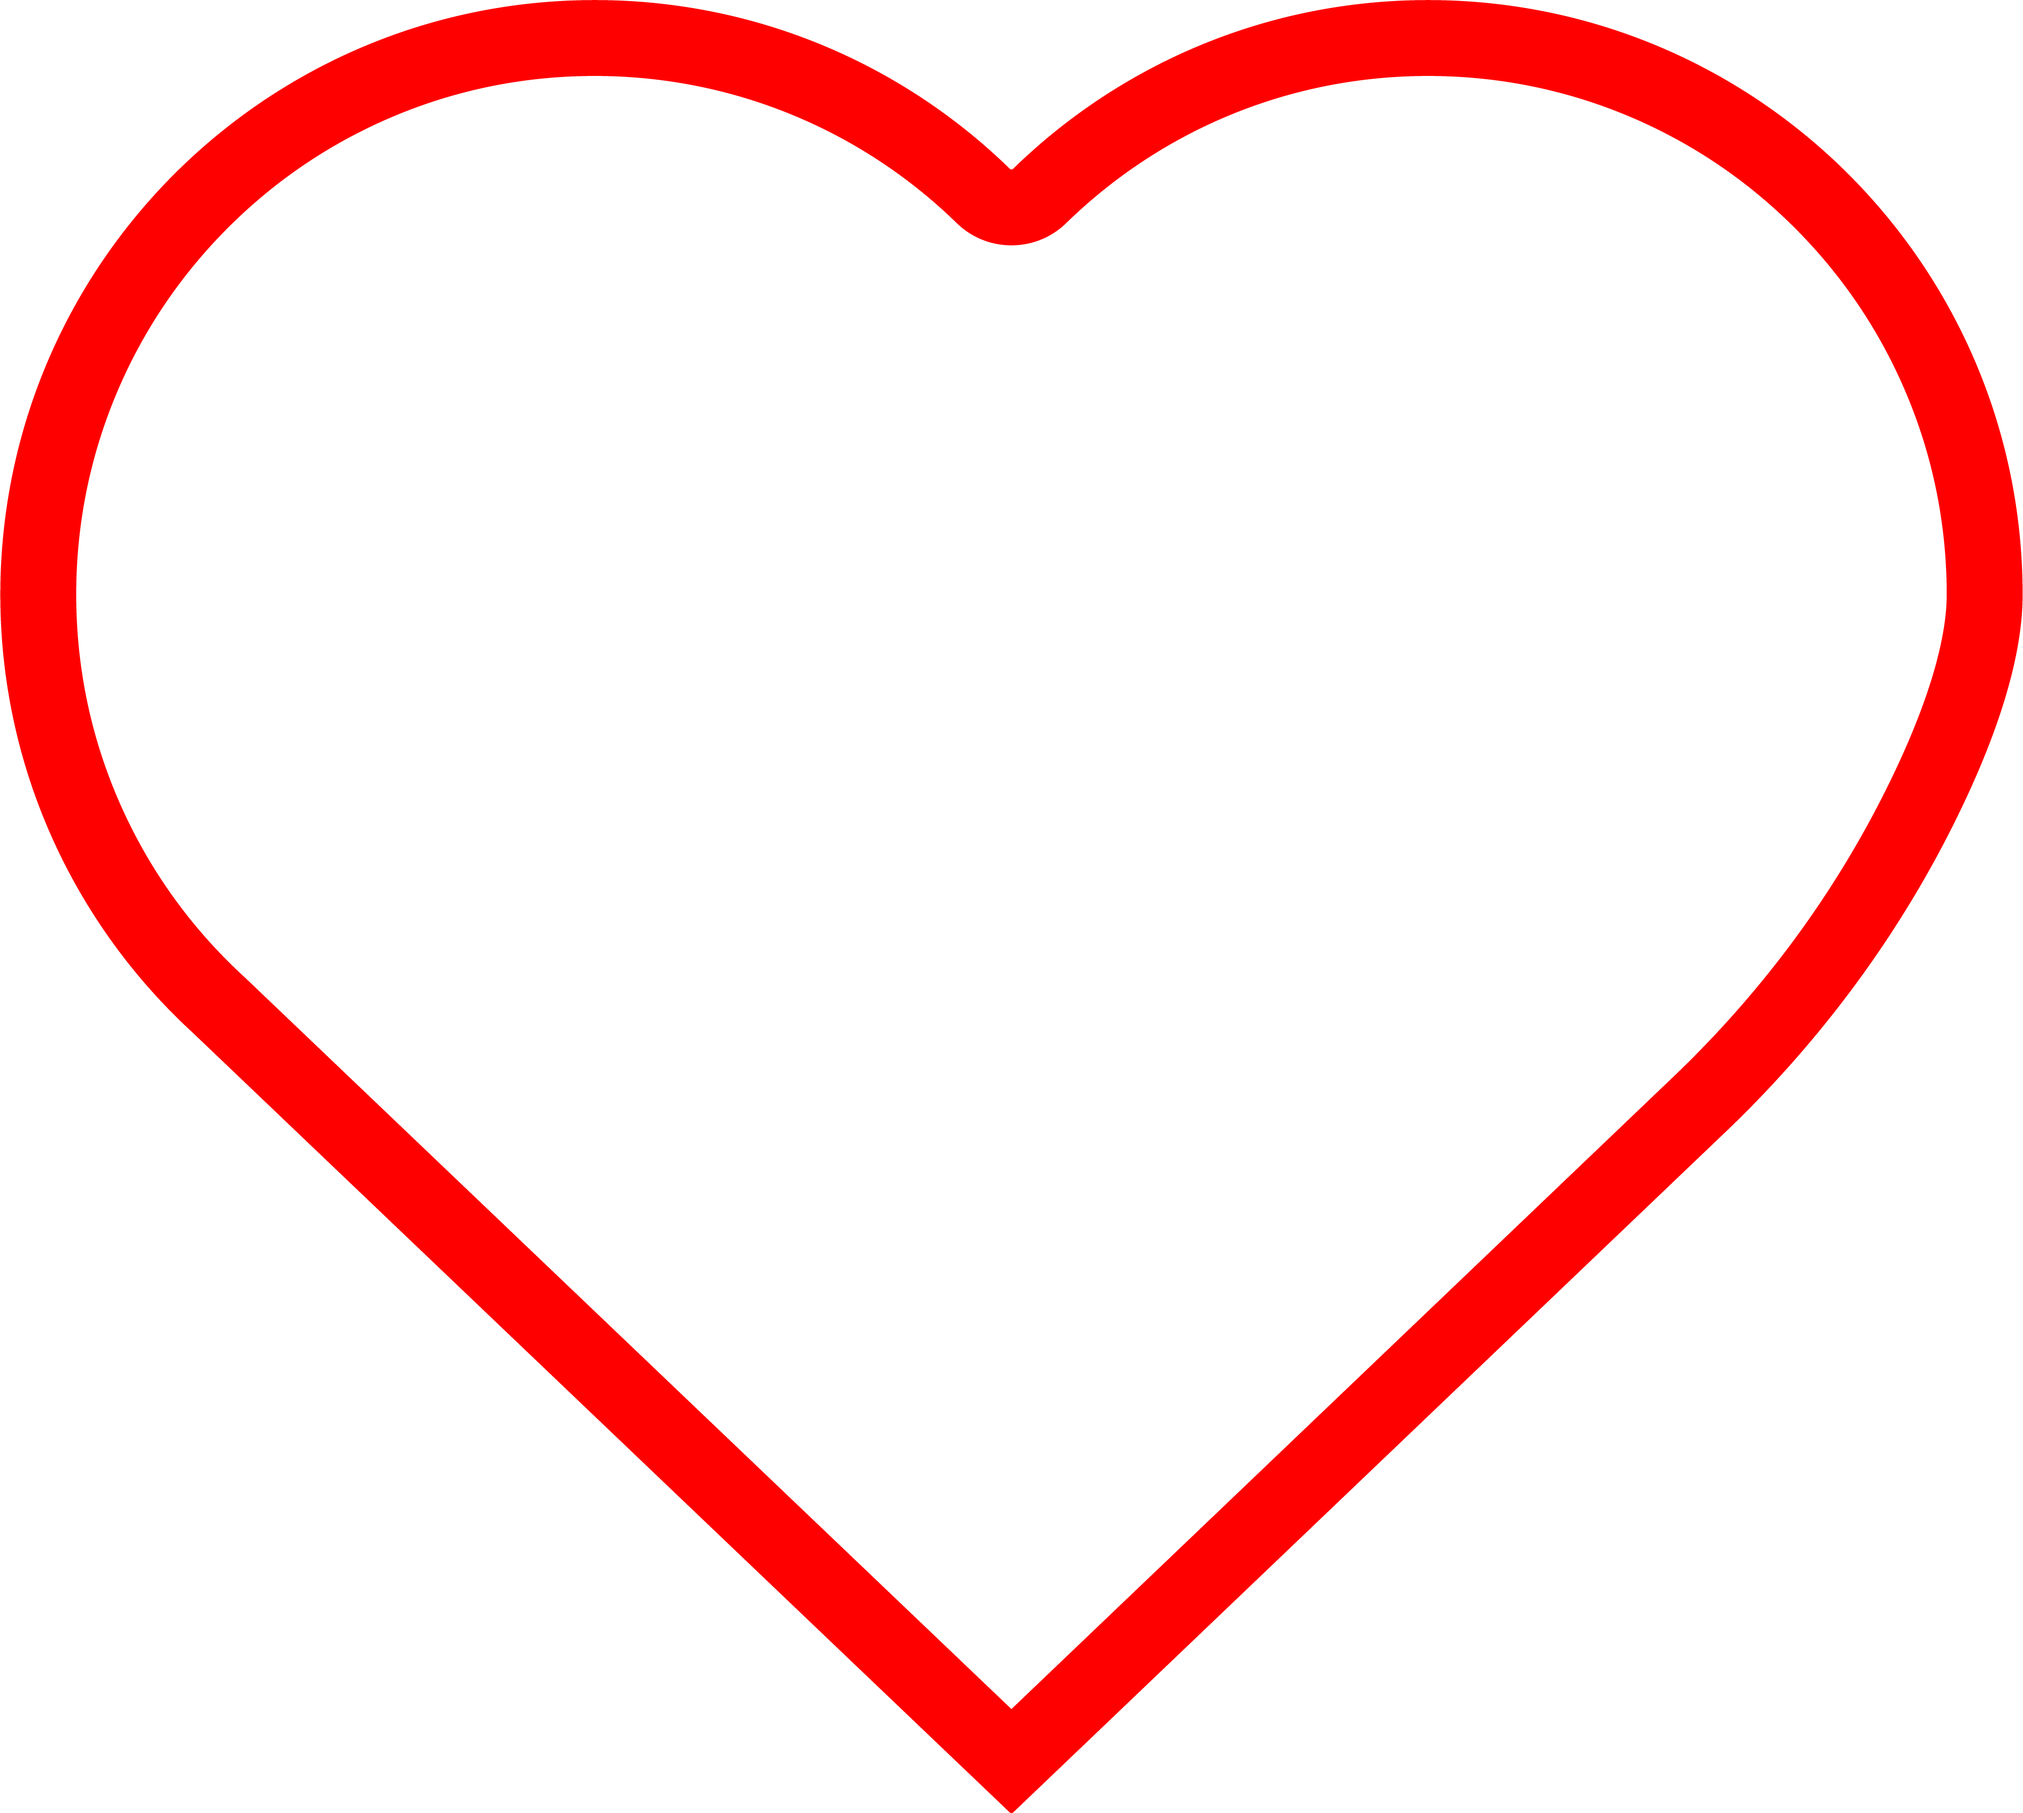
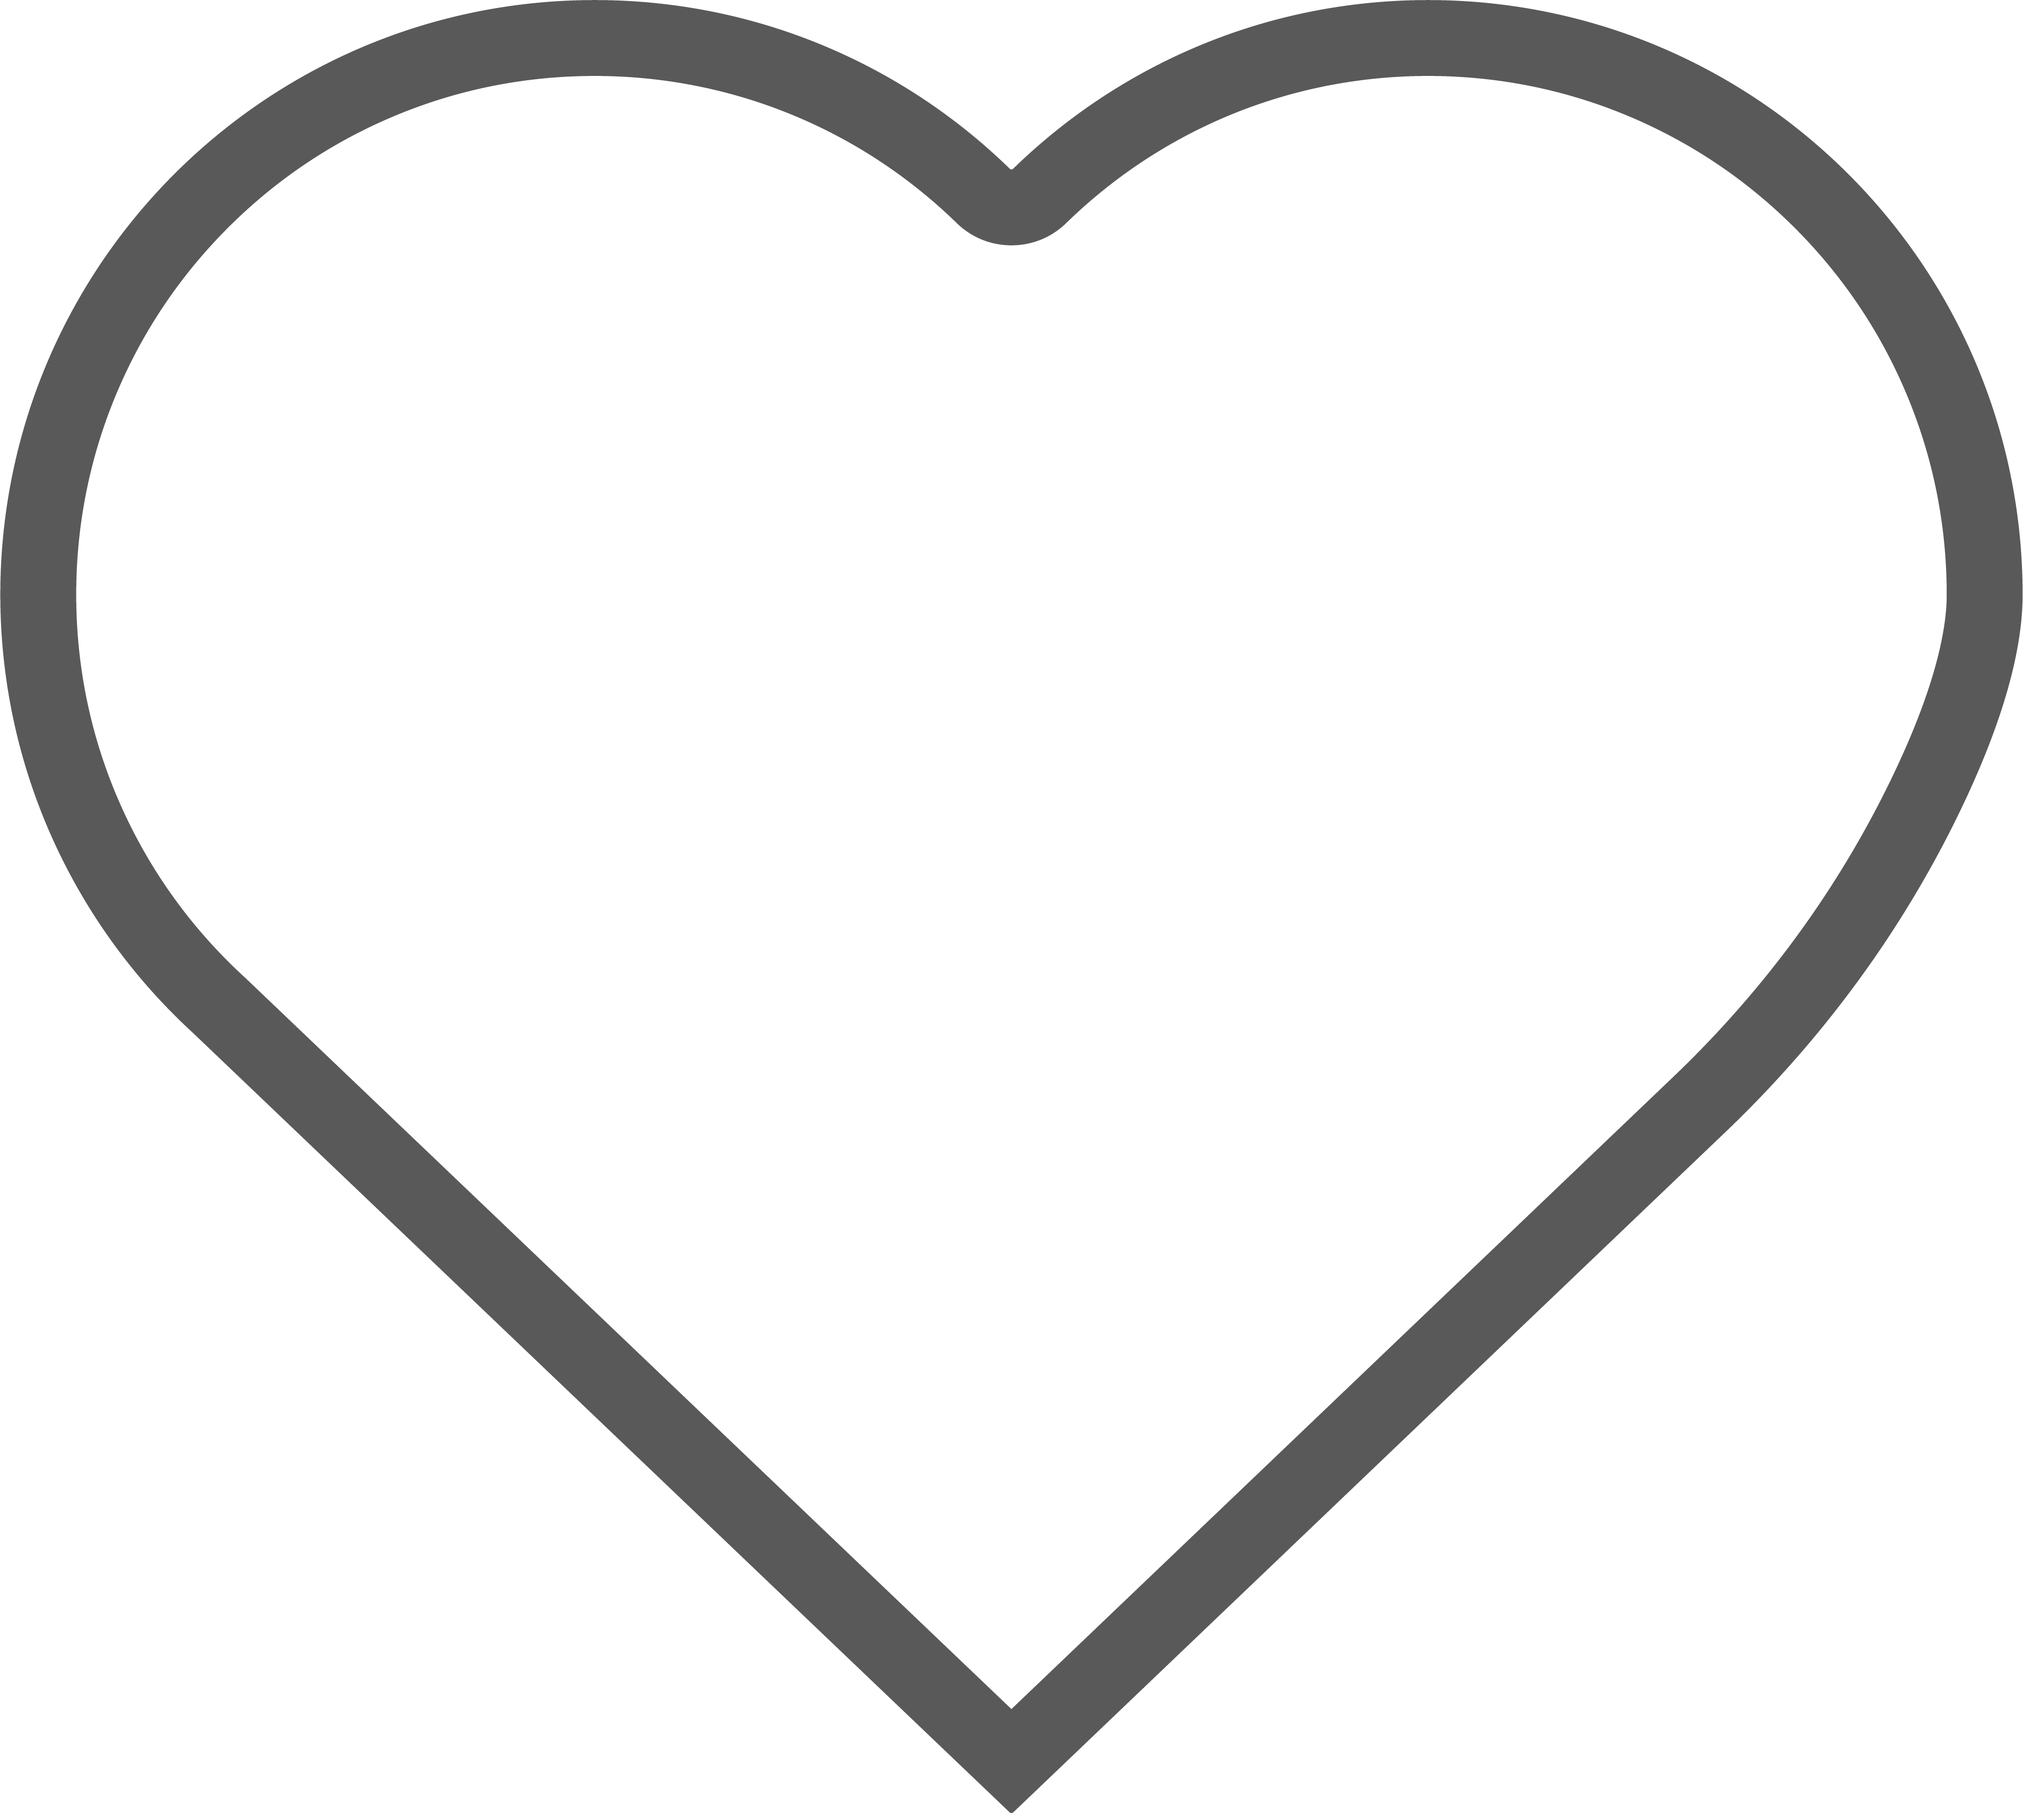
Botón like creado
Se ha creado el botón like con su diseño. Actualmente solo funciona visualmente

Changed region(s): [[0.0, 0.0, 1.0, 1.0]]

diff --git a/src/main/resources/static/js/home.js b/src/main/resources/static/js/home.js
@@ -53,6 +53,18 @@ document.getElementById('postImage').addEventListener('change', function (e) {
     }
 });
 
-document.getElementById('postTextarea').addEventListener('input', function() {
+document.getElementById('postTextarea').addEventListener('input', function () {
     document.getElementById('characterCount').textContent = this.value.length;
+});
+
+var likeIcon = document.querySelector('.like-icon');
+
+likeIcon.style.backgroundImage = 'url("../img/like.png")';
+
+likeIcon.addEventListener('click', function () {
+    if (likeIcon.style.backgroundImage.includes('like.png')) {
+        likeIcon.style.backgroundImage = 'url("../img/liked.png")';
+    } else {
+        likeIcon.style.backgroundImage = 'url("../img/like.png")';
+    }
 });

diff --git a/target/classes/static/js/home.js b/target/classes/static/js/home.js
@@ -53,6 +53,18 @@ document.getElementById('postImage').addEventListener('change', function (e) {
     }
 });
 
-document.getElementById('postTextarea').addEventListener('input', function() {
+document.getElementById('postTextarea').addEventListener('input', function () {
     document.getElementById('characterCount').textContent = this.value.length;
+});
+
+var likeIcon = document.querySelector('.like-icon');
+
+likeIcon.style.backgroundImage = 'url("../img/like.png")';
+
+likeIcon.addEventListener('click', function () {
+    if (likeIcon.style.backgroundImage.includes('like.png')) {
+        likeIcon.style.backgroundImage = 'url("../img/liked.png")';
+    } else {
+        likeIcon.style.backgroundImage = 'url("../img/like.png")';
+    }
 });

diff --git a/target/classes/static/css/home.css b/target/classes/static/css/home.css
@@ -411,11 +411,32 @@ p.card-text.username {
 }
 
 .post-textarea::-webkit-scrollbar-thumb:hover {
-    background: #007ea6;
+    background: #069fce;
 }
 
 #imagePreview {
     width: 100%;
     height: 100%;
     border-radius: 15px;
+}
+
+.like-icon {
+    background: url("../img/like.png") no-repeat center;
+    background-size: contain;
+    position: absolute;
+    top: 25px;
+    right: 15px;
+    width: 20px;
+    height: 20px;
+}
+
+.like-icon:hover {
+    transform: scale(1.15);
+    transition: transform .2s;
+    cursor: pointer;
+}
+
+.like-icon:active {
+    transform: matrix3d(1, 0, 0, 0, 0, 1, 0, 0, 0, 0.9, 1, 0, 0, 0, 0, 1);
+    transition: transform 0.1s;
 }

diff --git a/src/main/resources/templates/home.html b/src/main/resources/templates/home.html
@@ -131,6 +131,7 @@
                                         </a>
                                         <p class="card-text ml-2 name" th:text="${post.author.name}"></p>
                                         <p class="card-text ml-2 username" th:text="'@' + ${post.author.username}"></p>
+                                        <div class="like-icon"></div>
                                     </div>
                                     <div class="card-body d-flex flex-column">
                                         <a th:href="'/post/' + ${post.author.username} + '/' + ${post.id}" style="text-decoration: none; color: inherit;">

diff --git a/target/classes/templates/home.html b/target/classes/templates/home.html
@@ -131,6 +131,7 @@
                                         </a>
                                         <p class="card-text ml-2 name" th:text="${post.author.name}"></p>
                                         <p class="card-text ml-2 username" th:text="'@' + ${post.author.username}"></p>
+                                        <div class="like-icon"></div>
                                     </div>
                                     <div class="card-body d-flex flex-column">
                                         <a th:href="'/post/' + ${post.author.username} + '/' + ${post.id}" style="text-decoration: none; color: inherit;">

diff --git a/src/main/resources/static/css/home.css b/src/main/resources/static/css/home.css
@@ -419,3 +419,19 @@ p.card-text.username {
     height: 100%;
     border-radius: 15px;
 }
+
+.like-icon {
+    background: url("../img/like.png") no-repeat center;
+    background-size: contain;
+    position: absolute;
+    top: 25px;
+    right: 15px;
+    width: 20px;
+    height: 20px;
+}
+
+.like-icon:hover {
+    transform: scale(1.15);
+    transition: transform .2s;
+    cursor: pointer;
+}
